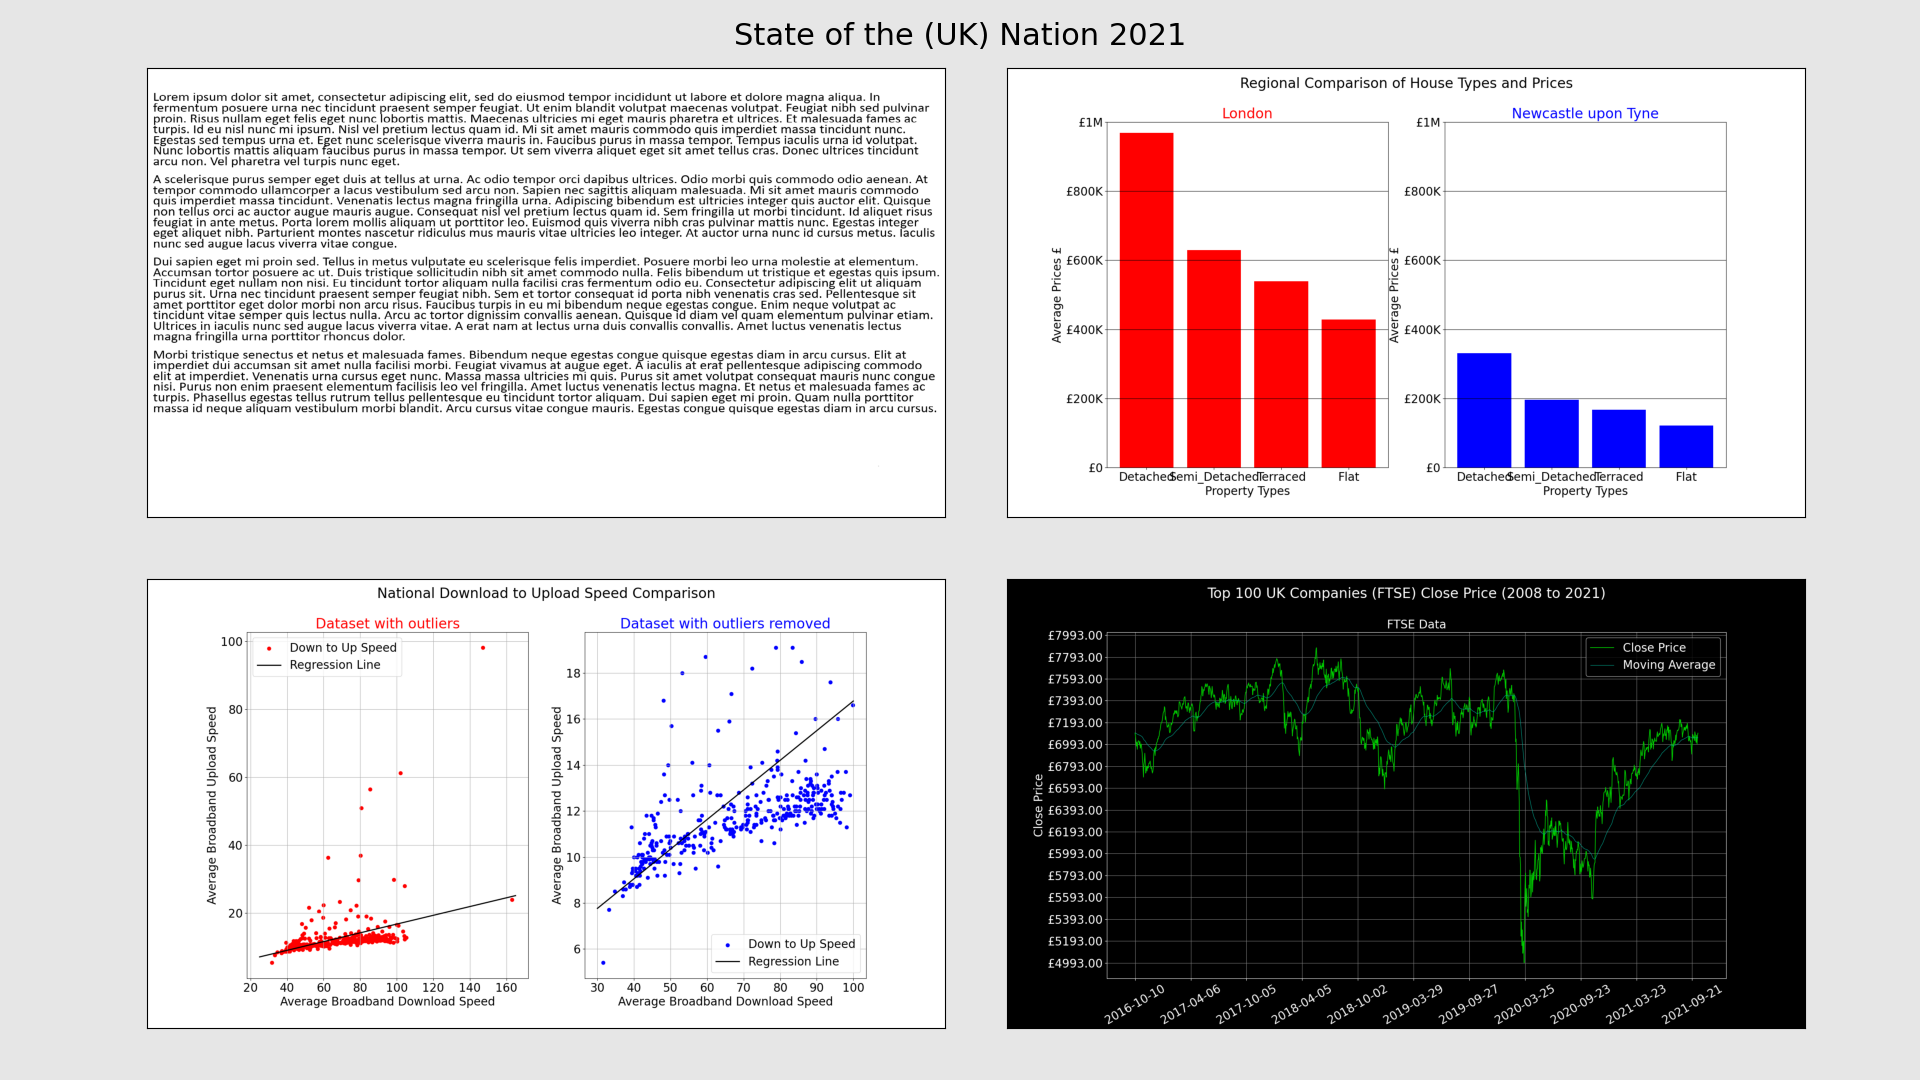
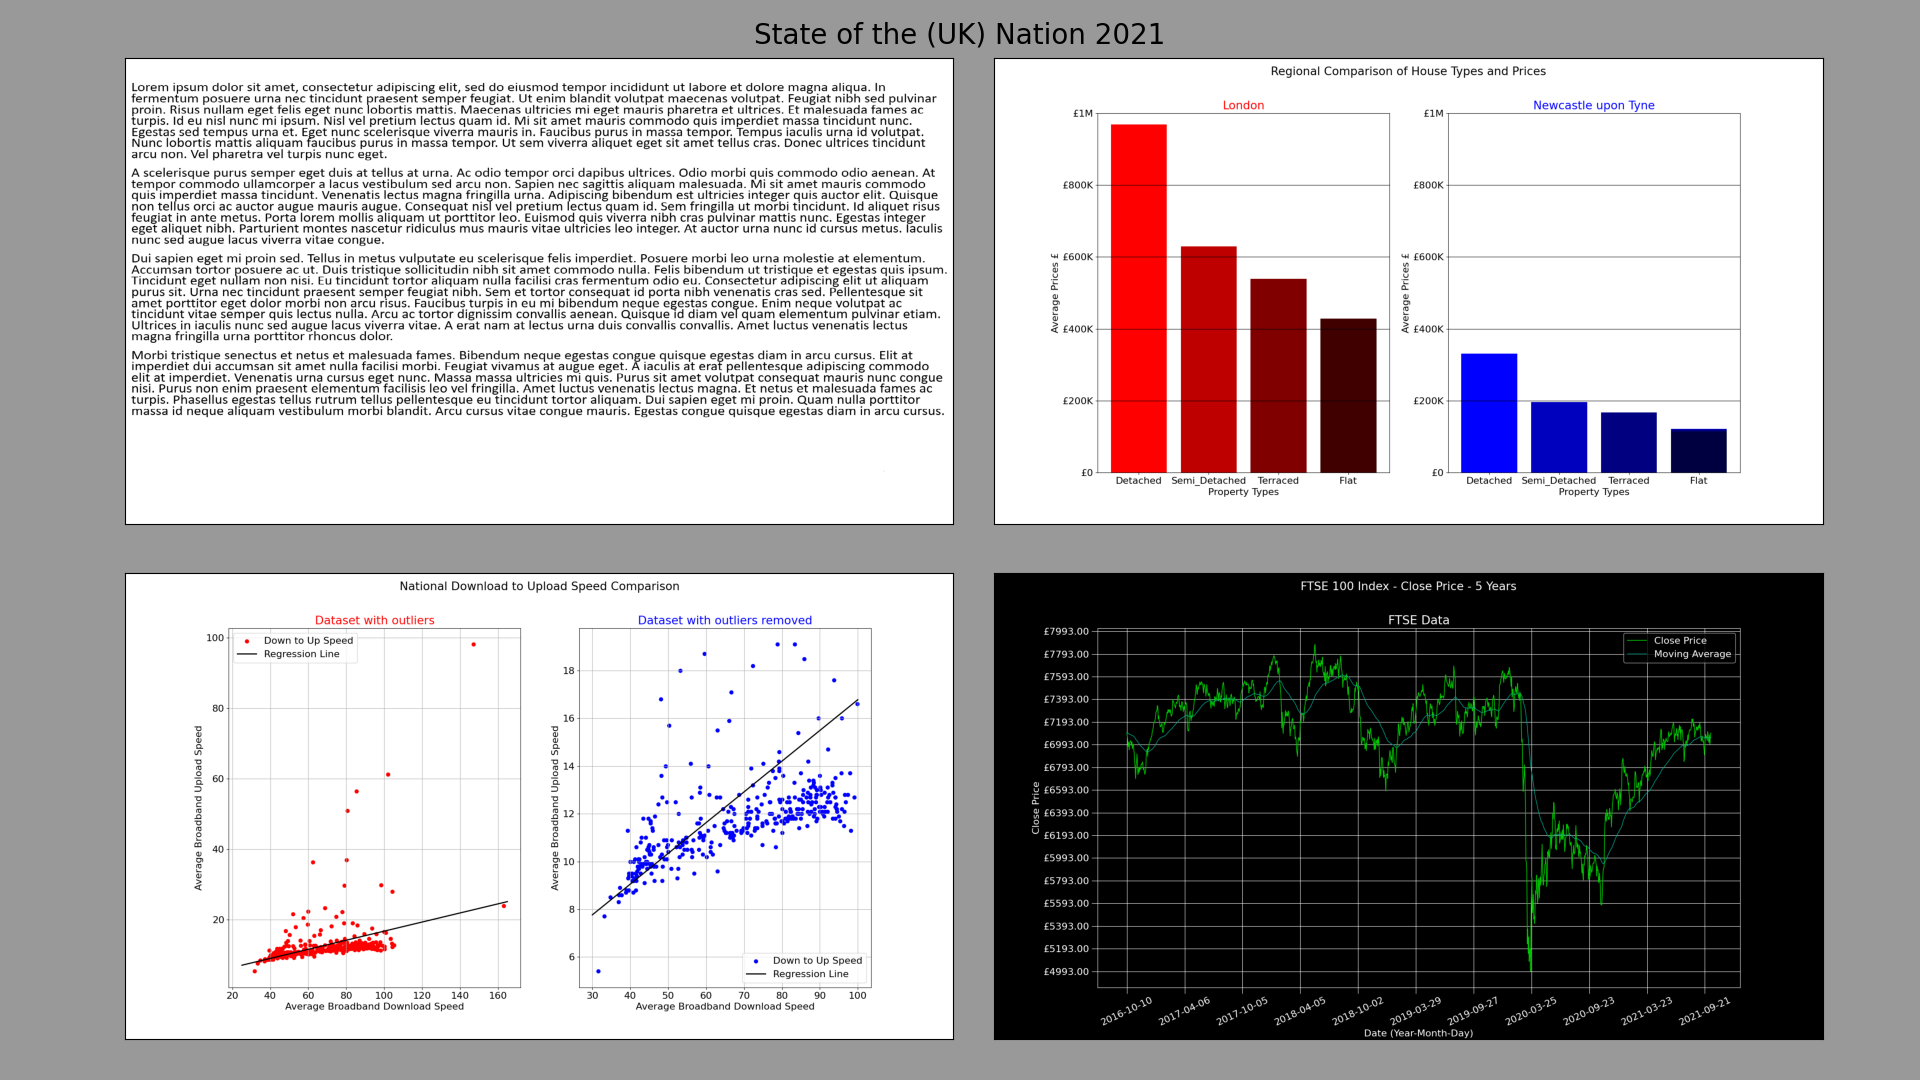
Colored bars in part_a

diff --git a/part_c.py b/part_c.py
@@ -34,9 +34,9 @@ def calc_moving_avg(period=1, alpha=0.5, c=ftse2008):
 def part_c(fig, ax1, _, show=True, save=False):
     plt.style.use('dark_background')
     ax1 = plt.axes()
-    ax1.grid(color='grey')
+    ax1.grid(color='white')
     ax1.set_facecolor('black')
-    fig.suptitle("Top 100 UK Companies (FTSE) Close Price (2008 to 2021)")
+    fig.suptitle("FTSE 100 Index - Close Price - 5 Years")
     # Shorten variable names
     d = ftse5y['date']   # d = Dates
     c = ftse5y['Close']  # c = Close prices
@@ -44,14 +44,14 @@ def part_c(fig, ax1, _, show=True, save=False):
     ma = calc_moving_avg(1, 0.025, ftse5y)
     # Plot data
     ax1.plot(d, c, linewidth=1.25, color=(0, 0.8, 0, 1.0), label='Close Price')
-    ax1.plot(d, ma, linewidth=0.75, color=(0.0, 0.7, 0.6, 1.0), label='Moving Average')
+    ax1.plot(d, ma, linewidth=1.0, color=(0.0, 0.7, 0.6, 1.0), label='Moving Average')
     # Title and Axis labels
     ax1.set_title("FTSE Data", size=20)
     ax1.set_xlabel("Date (Year-Month-Day)")
     ax1.set_ylabel("Close Price")
     # Axis tickers and labels
     ax1.set_xticks(ticks=[x for x in range(0, len(d), 125)])
-    ax1.tick_params(labelrotation=30)
+    ax1.tick_params(labelrotation=25, length=10)
     ax1.set_yticks(ticks=[y for y in range(int(min(c)), int(max(c)) + 200, 200)],
                    labels=["£" + str(x) + ".00" for x in range(int(min(c)),
                                                                int(max(c)) + 200, 200)],

diff --git a/main.py b/main.py
@@ -10,10 +10,10 @@ def collage(showplt=True, savepltimg=False):
     """ Plot a 4 panel 16:9 figure for each graph
     and text summarising each graph. """
     ## Configure main figure and subplots
-    plt.rcParams.update({'font.size': 20})
+    plt.rcParams.update({'font.size': 16})
     fig, (r1, r2) = plt.subplots(2, 2, figsize=(19.2, 10.8),
-                                 facecolor=(0.90, 0.90, 0.90, 1))
-    fig.suptitle("State of the (UK) Nation 2021", size=22)
+                                 facecolor=(0.60, 0.60, 0.60, 1))
+    fig.suptitle("State of the (UK) Nation 2021", size=20)
     fig.tight_layout(pad=0.5)
     plt.subplots_adjust(wspace=-0.1)
     plts = [r1[0], r1[1], r2[0], r2[1]]
@@ -44,10 +44,8 @@ def collage(showplt=True, savepltimg=False):
 
 if __name__ == '__main__':
     collage(showplt=False, savepltimg=True)
-    # Todo: Rotate part_c x-labels
-    # Todo: Write short summaries for each plot
     # Todo: part_b highlight one or two areas of interest
+    # Todo: Write short summaries for each plot
     # Todo: Explain moving average for part_c
-    # Todo: SuperTitle for each plot
     # Todo: 1,000 Word Report
     # Todo: 200 Word Report

diff --git a/part_a.py b/part_a.py
@@ -49,7 +49,9 @@ def part_a(fig, ax1, ax2, show=True, save=False):
     fig.suptitle("Regional Comparison of House Types and Prices")
     ## Axis 1 - London Data
     ax1.grid(axis='y', color='black')
-    ax1.bar(ld['Property_Type'], ld['Avg_Price'], color='red')
+    ax1.bar(ld['Property_Type'], ld['Avg_Price'], color=
+            [(1.0, 0, 0, 1.0), (0.75, 0, 0, 1.0),
+             (0.5, 0, 0, 1.0), (0.25, 0, 0, 1.0)])
     ax1.set_title("London", color='red')
     ax1.tick_params('x', labelrotation=0)
     ax1.set_yticks(ticks=[x*200_000 for x in range(6)])
@@ -59,7 +61,9 @@ def part_a(fig, ax1, ax2, show=True, save=False):
     ax1.set_ylim(0, 1_000_000)
     ## Axis 2 - Newcastle Data
     ax2.grid(axis='y', color='black')
-    ax2.bar(nd['Property_Type'], nd['Avg_Price'], color='blue')
+    ax2.bar(nd['Property_Type'], nd['Avg_Price'], color=[
+        (0, 0, 1.0, 1), (0, 0, 0.75, 1),
+        (0, 0, 0.5, 1), (0, 0, 0.25, 1)])
     ax2.set_title("Newcastle upon Tyne", color='blue')
     ax2.tick_params('x', labelrotation=0)
     ax2.set_yticks(ticks=[x*200_000 for x in range(6)])
